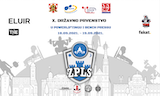
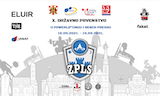
Dodan Janaf

diff --git a/_posts/2021-06-12-drzavno-najava.md b/_posts/2021-06-12-drzavno-najava.md
@@ -13,6 +13,6 @@ Natjecanje će se moći pratiti i uživo preko profesionalnog livestreama s viš
 
 Glavni sponzor natjecanja je <a href="https://www.eluir.hr" target="_blank">ELUIR</a>, koji će nam omogućiti vrhunsku opremu u prostoru za zagrijavanje sa svojim novim Legion combo rackovima. Osim toga, osigurati će i vrijedne nagrade za najbolje powerliftere i powerlifterice - između ostalog - SBD pojaseve!
 
-Ostali sponzori su <a href="https://www.the-nutrition.com/domov/sl/hr" target="_blank">THE Nutrition</a>, <a href="https://trainstation.com.hr" target="_blank">Train Station</a> i <a href="https://www.fakat.eu" target="_blank">fakat.</a>.
+Ostali sponzori su <a href="https://janaf.hr" target="_blank">JANAF</a>, <a href="https://www.the-nutrition.com/domov/sl/hr" target="_blank">THE Nutrition</a>, <a href="https://trainstation.com.hr" target="_blank">Train Station</a> i <a href="https://www.fakat.eu" target="_blank">fakat.</a>.
 
-Više informacija o lokaciji i terminima uskoro. Prijave su moguće na standardan način - preko prijavnica koje šalju klubovi.
+Natjecanje će se održati u sportskoj dvorani Osnovne škole Vrbani, Listopadska 8. Prijave su moguće na standardan način - preko prijavnica koje šalju klubovi.
